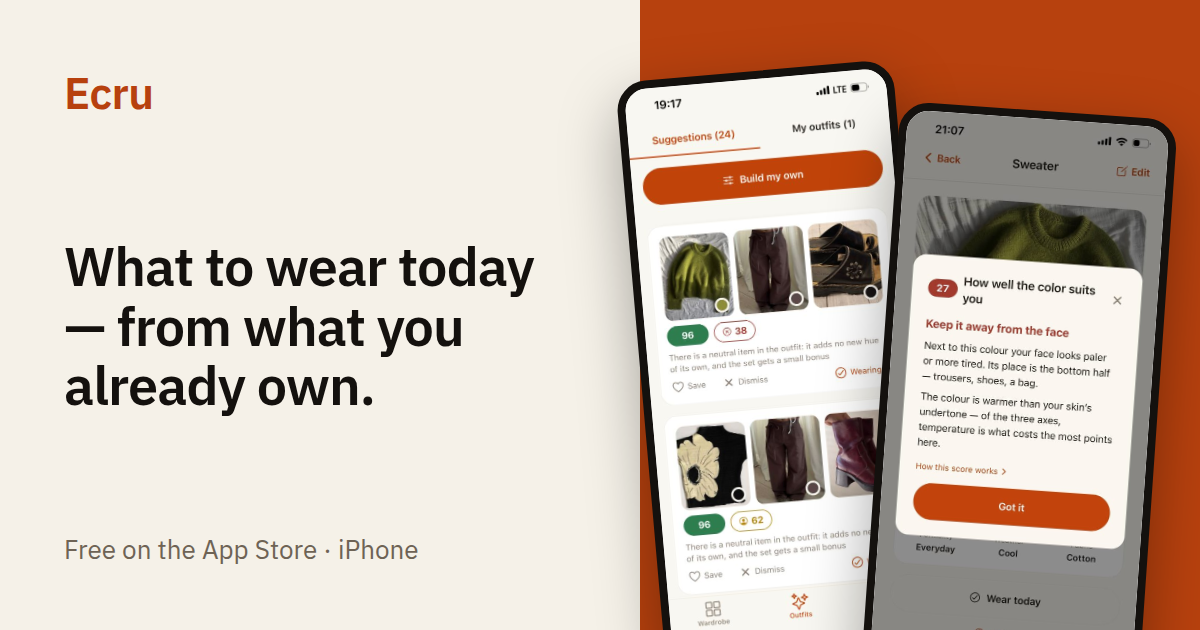
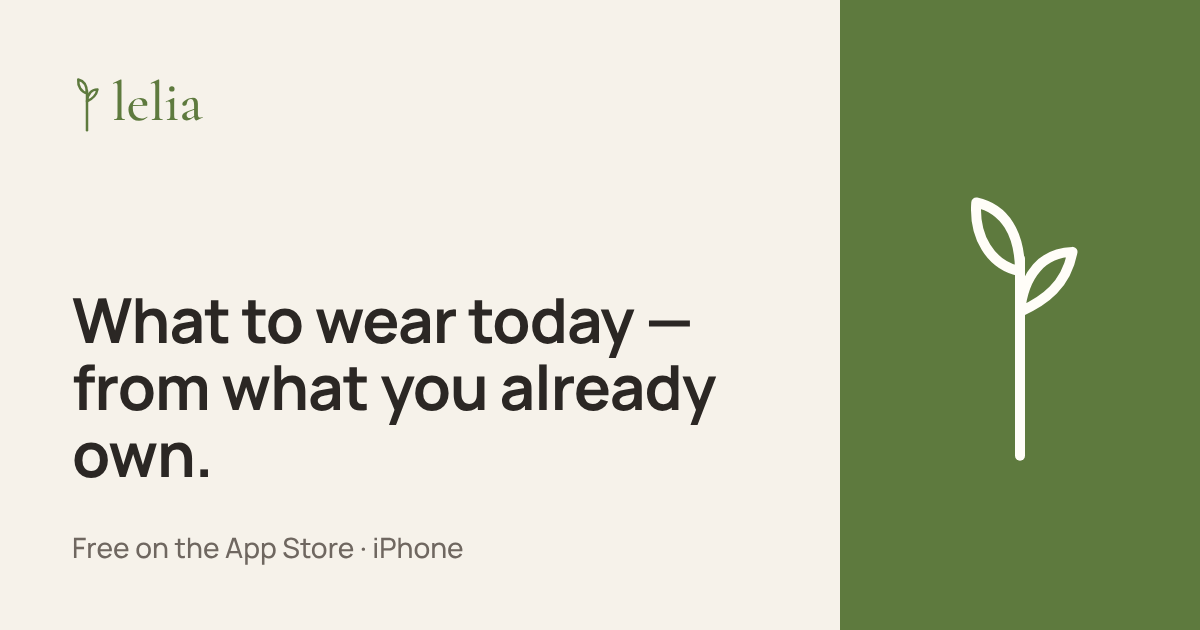
Lelia link previews; Ukrainian and Polish copy read right with the new name
- OG cards: the headline beside the sprout, in the Lelia colours. The old
  cards showed the Ecru interface; app captures come back once the 1.2
  App Store shots exist.
- Ukrainian: "він" stood for Ecru; now the app or no pronoun at all.
- Polish: "w aplikacji Lelia" instead of an undeclined name.
- A slightly larger, bolder sprout in the header and footer.

Claude-Session: https://claude.ai/code/session_016fi9kMpocJWXWBXA3oierB

diff --git a/style.css b/style.css
@@ -310,13 +310,13 @@ a:hover { color: var(--accent-hover); }
 }
 
 .wordmark .sprout {
-  width: 0.48em;
-  height: 0.97em;
+  width: 0.55em;
+  height: 1.1em;
   /* Низ стебла — на рівні низу літер, а не базової лінії. */
   margin-bottom: -0.04em;
   fill: none;
   stroke: currentColor;
-  stroke-width: 1.8;
+  stroke-width: 2.2;
   stroke-linecap: round;
   stroke-linejoin: round;
 }

diff --git a/README.md b/README.md
@@ -220,11 +220,12 @@ without recording and without GeoIP.
   and language, as before.
 - Open Graph and Twitter tags with a preview image per language
   (`assets/og/og-<lang>.png`, 1200×630) — links pasted into Telegram,
-  Instagram or Slack show a card instead of a bare URL. Each card is the
-  page's `hero.title` beside two real app screens (`outfits` and `suits`:
-  outfits with their reasons, and a score opened into its explanation), so the
-  preview shows what the app does, not just its name. Re-render them when
-  those captures are retaken.
+  Instagram or Slack show a card instead of a bare URL. For now each card is
+  the page's `hero.title` beside the Lelia sprout: the app captures on the
+  page still show the old Ecru interface, and a preview with them would show
+  an app that no longer looks like that. Once the 1.2 App Store screenshots
+  exist, re-render the cards with two of them (outfits with their reasons,
+  and a score opened into its explanation).
 - `apple-itunes-app` — Safari on iPhone shows the App Store smart banner.
 - JSON-LD on the home page: `MobileApplication` (iOS, free) and `FAQPage`
   built from the `faq.*` strings, so search can show the answers directly.
